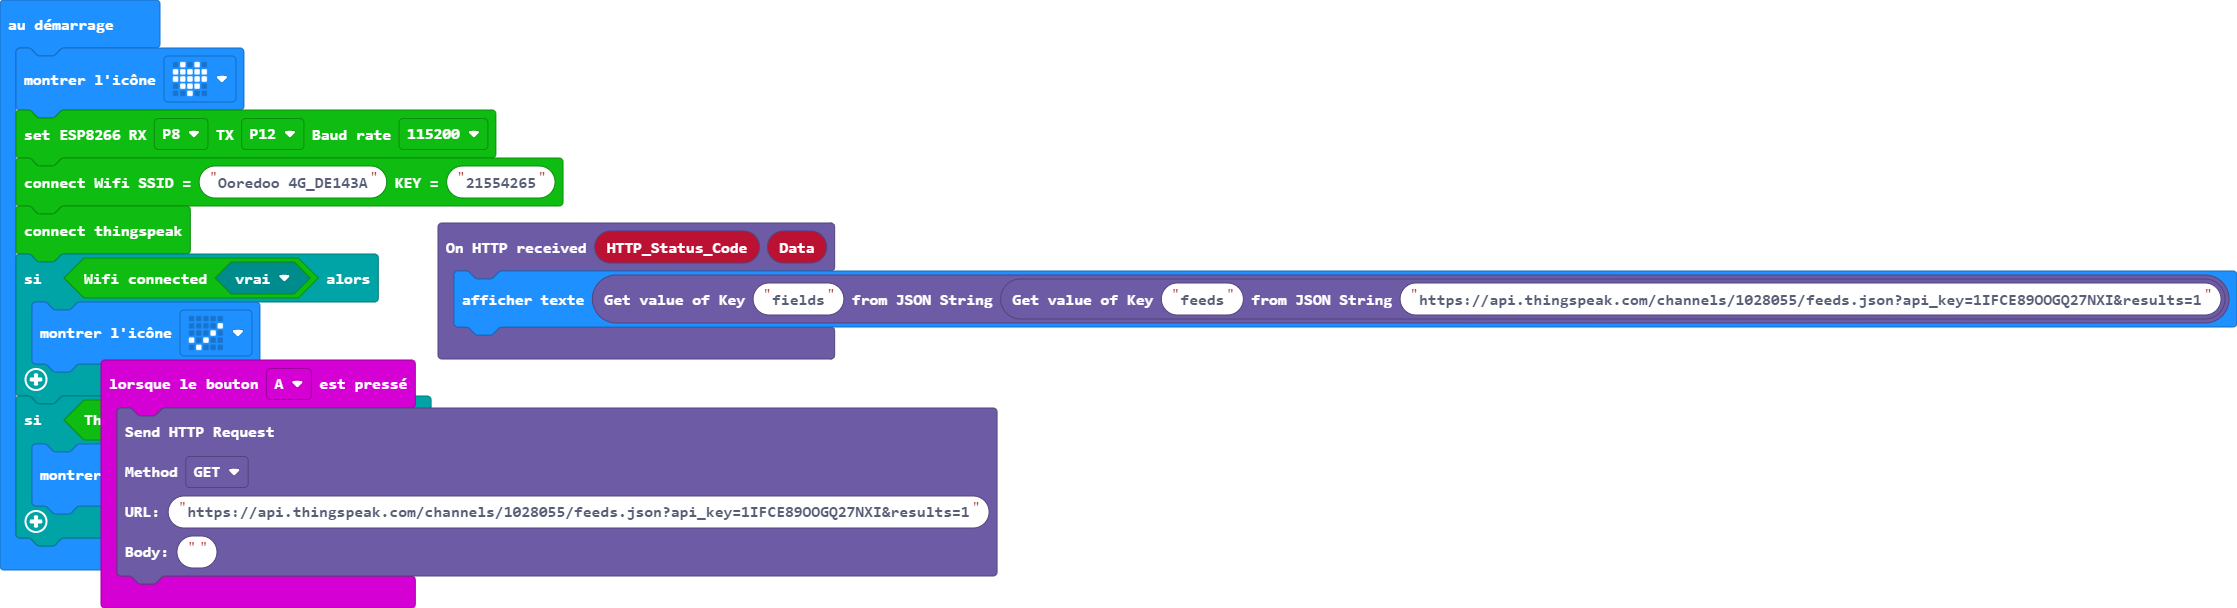
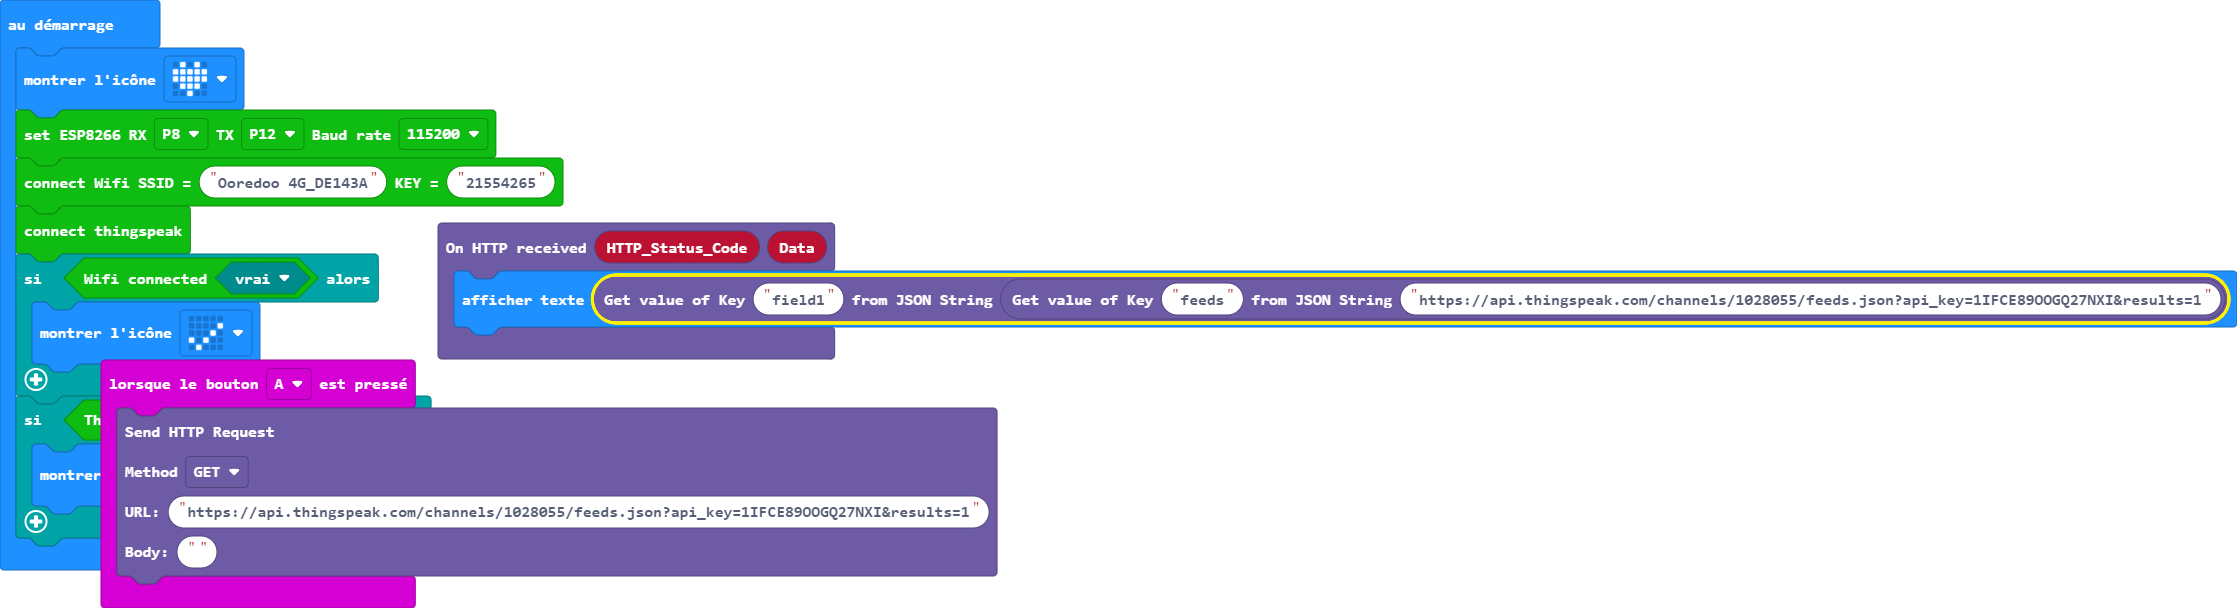
au lieu d'écrire field1 j'ai écrit fields

Changed region(s): [[0.2776, 0.4375, 1.0, 0.5625]]

diff --git a/main.ts b/main.ts
@@ -6,7 +6,7 @@ input.onButtonPressed(Button.A, function () {
     )
 })
 ESP82668_IoT_naim.on_HTTP_recevid(function (HTTP_Status_Code, Data) {
-    basic.showString(ESP82668_IoT_naim.get_value("fields", ESP82668_IoT_naim.get_value("feeds", "https://api.thingspeak.com/channels/1028055/feeds.json?api_key=1IFCE89OOGQ27NXI&results=1")))
+    basic.showString(ESP82668_IoT_naim.get_value("field1", ESP82668_IoT_naim.get_value("feeds", "https://api.thingspeak.com/channels/1028055/feeds.json?api_key=1IFCE89OOGQ27NXI&results=1")))
 })
 basic.showIcon(IconNames.Heart)
 ESP8266_IoT.initWIFI(SerialPin.P8, SerialPin.P12, BaudRate.BaudRate115200)
